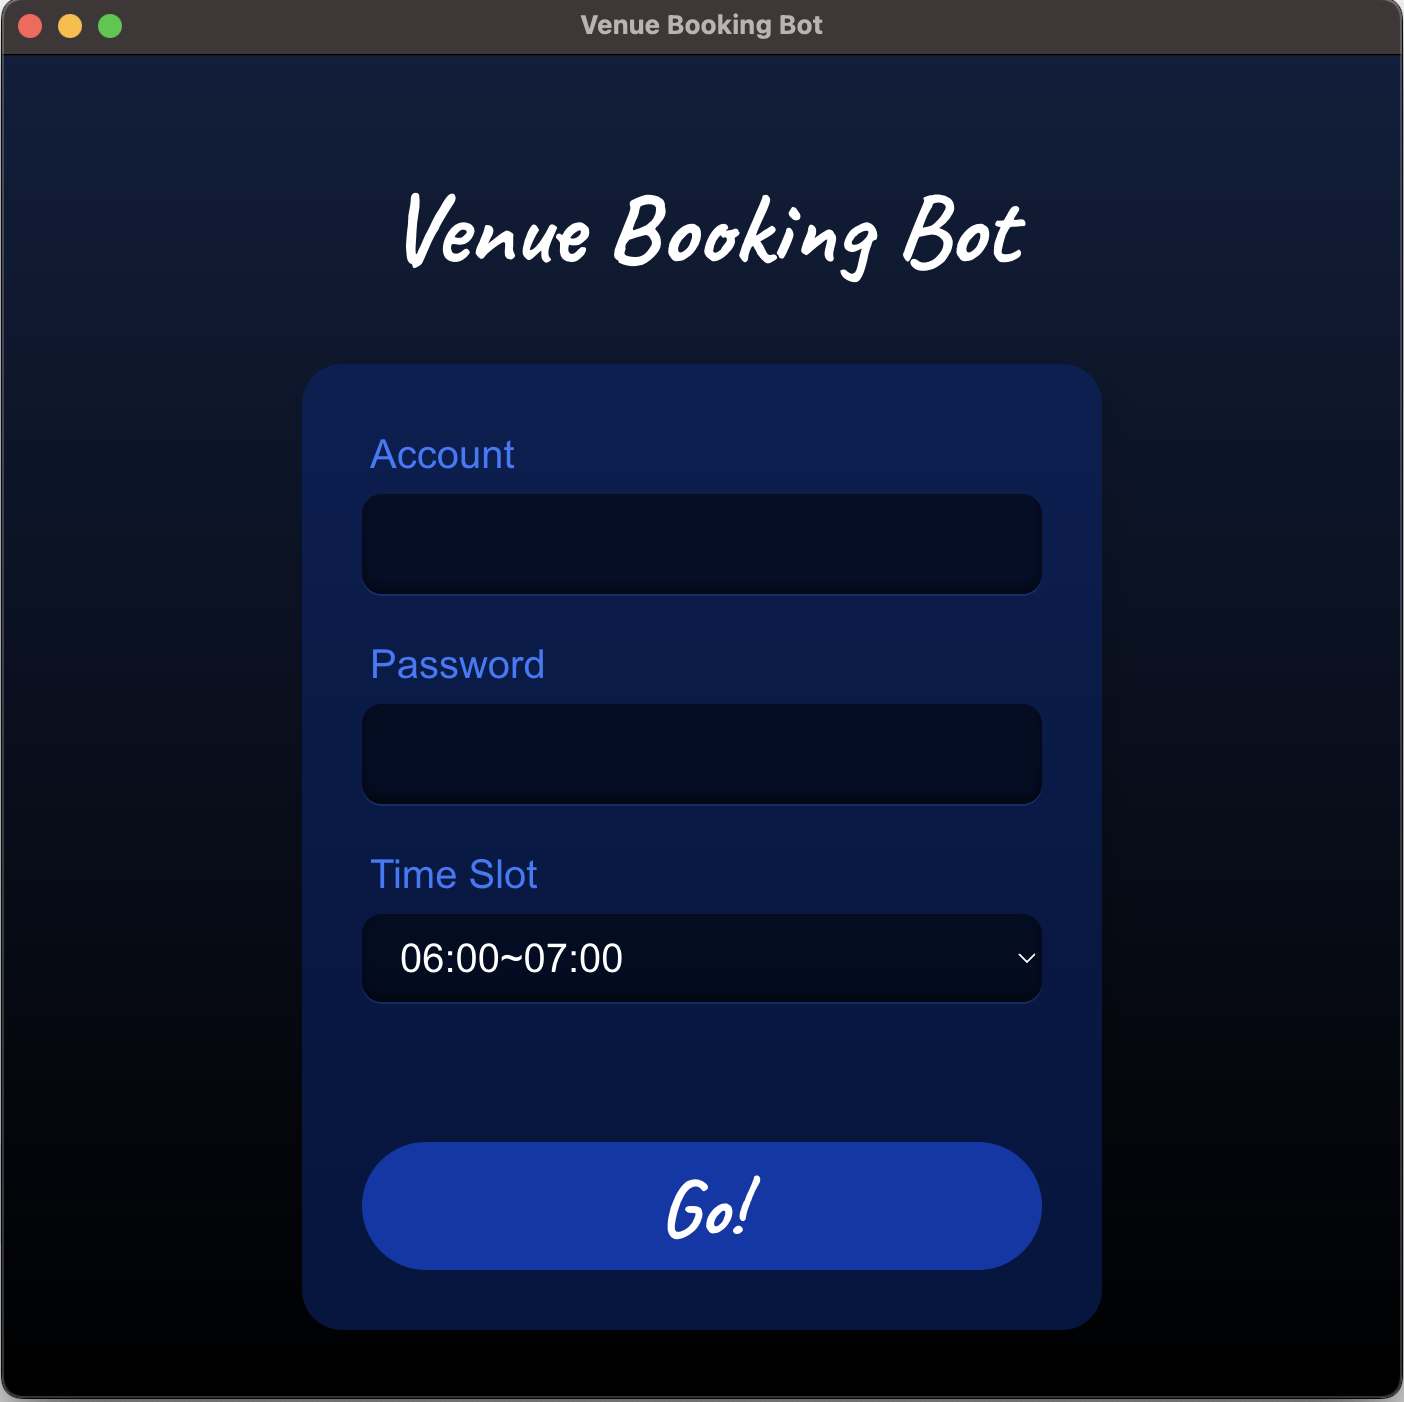
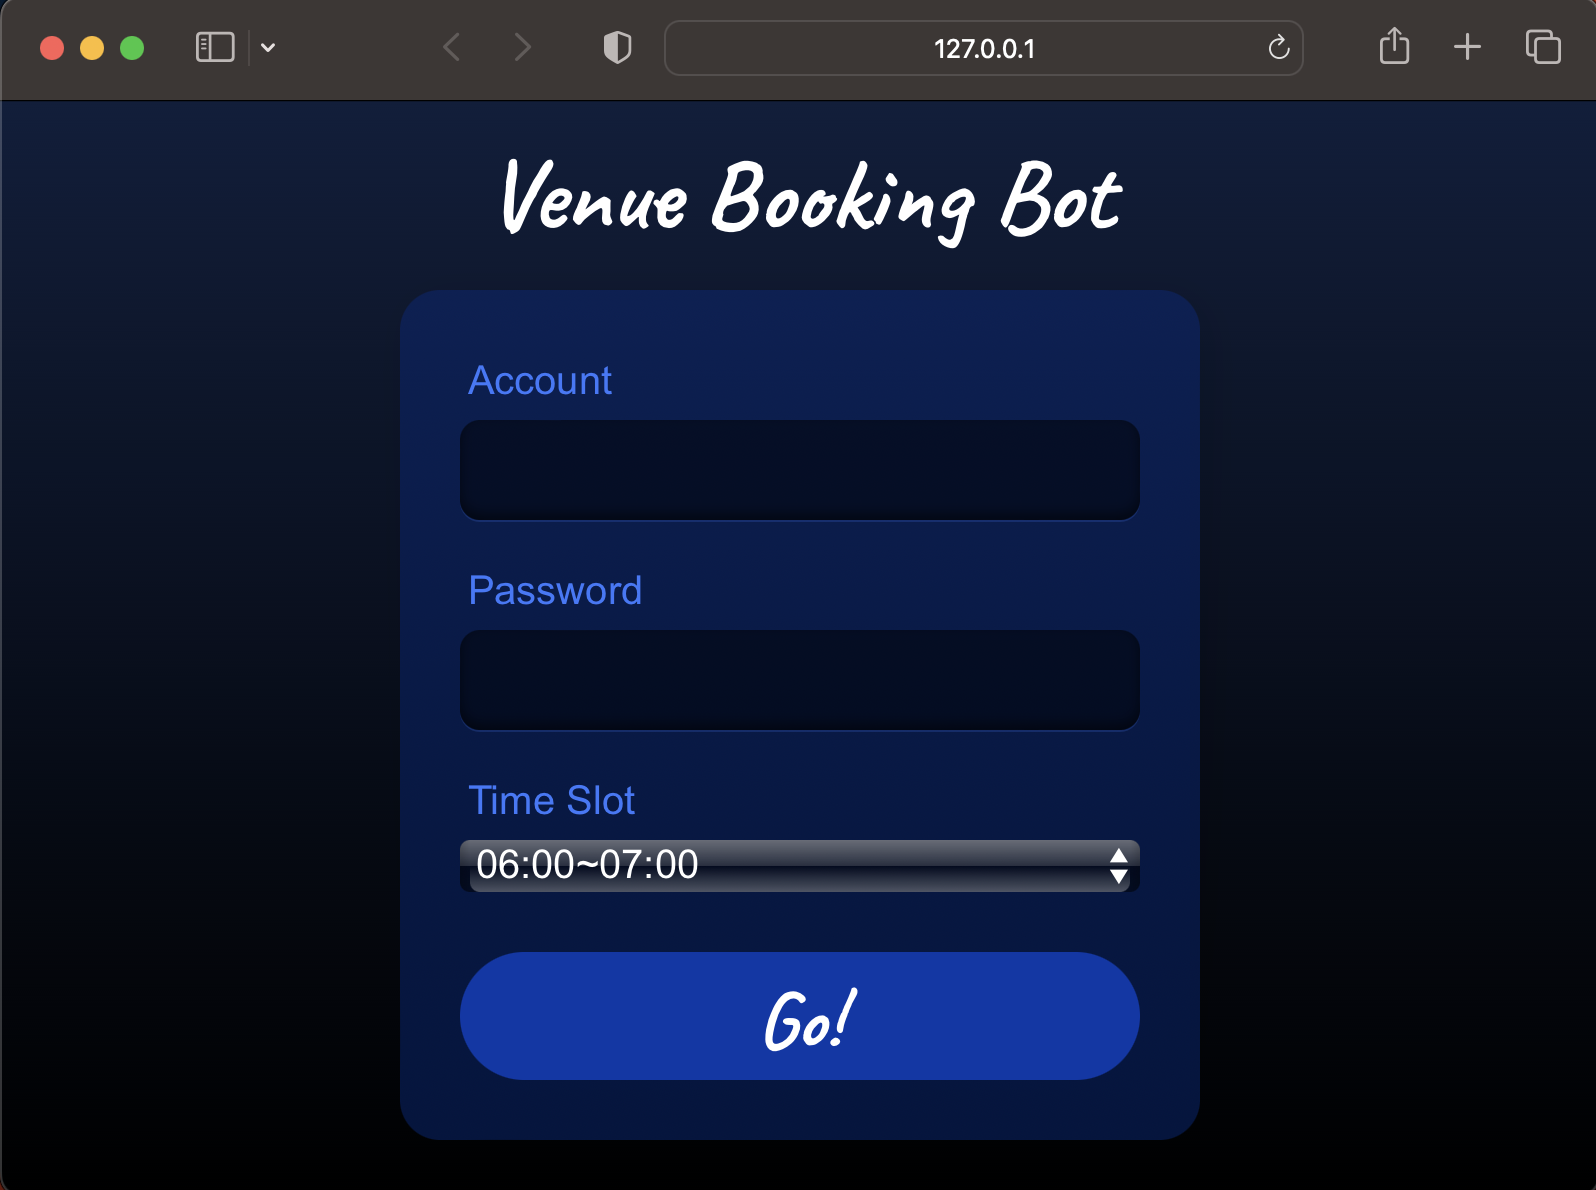
更新文件和demo圖片

Changed region(s): [[0.2144, 0.1244, 0.7963, 0.9639], [0.0, 0.0, 1.0, 1.0]]

diff --git a/README.md b/README.md
@@ -1,10 +1,18 @@
-# Venue Booking Bot
-
 This project automates the process of booking venues using a Python script for the automation logic.
 
 ![demo](./demo.png)
 
-## Project Setup
+# Project Setup
+## Option 1: Download and Run the Executable
+You can download the pre-built executable from the following link:
+- `macOS`: https://reurl.cc/gGKqaQ
+- `windows`:
+
+After downloading, unzip the file and run the executable:
+```
+./app
+```
+## Option 2: Set Up the Python Environment
 
 ### Prerequisites
 
@@ -40,14 +48,14 @@ This will create a dist directory with the packaged executable (app or app.exe).
 ```
 venue-booking-bot
 ├── dist
-│   └── app           # Packaged Python executable
-├── templates          # HTML templates for Flask
-│   └── index.html     # HTML file for user interface
-├── static             # Static files for Flask
-│   └── style.css      # CSS file for styling
-├── app.py             # Python script for web browser
-├── sdk.py             # Python script containing the booking SDK logic
-└── README.md          # Project documentation
+│   └── app           
+├── templates          
+│   └── index.html     
+├── static             
+│   └── style.css      
+├── app.py             
+├── sdk.py             
+└── README.md          
 
 ```
 
@@ -78,7 +86,7 @@ Ensure the path to the Python executable is correct in your setup and that the s
 ## Running the Application
 ```
 cd dist
-./app  # or app.exe on Windows
+./app
 ```
 Alternatively, you can run the Flask application directly using the Python script:
 ```
